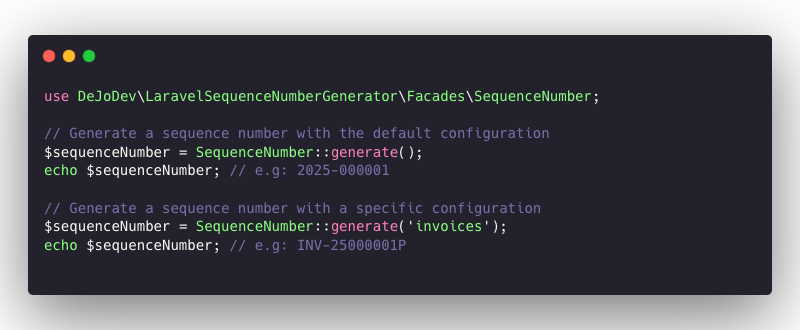
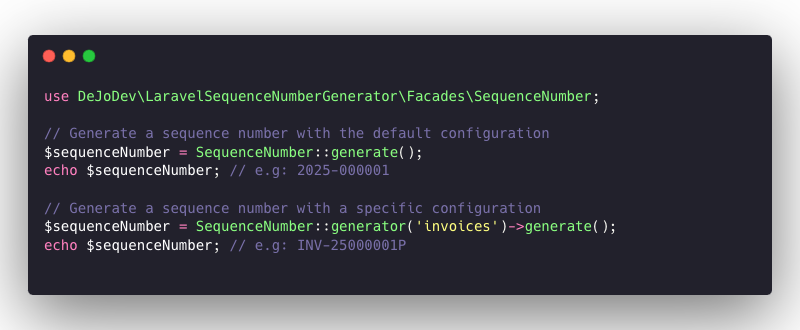
Update README; modify .gitattributes to ignore /img directory

diff --git a/README.md b/README.md
@@ -27,30 +27,30 @@ $sequenceNumber = SequenceNumber::generate();
 echo $sequenceNumber; // e.g: INV-2025-000001 
 
 // Generate a sequence number with a specific configuration
-$sequenceNumber = SequenceNumber::generate('custom');
+$sequenceNumber = SequenceNumber::generator('custom')->generate();
 echo $sequenceNumber; // e.g: MY-TYPE-25-000001P
 ```
 
 > **Warning** This package uses database locking to ensure that each generated number is unique so you must use a database that
-supports lockForUpdate() like mysql, mariadb or postgresql.
+supports lockForUpdate() like MySQL, MariaDB or PostgreSQL.
 
 ## Installation
 
-You can install the package via composer:
+You can install the package via Composer:
 ```bash
 composer require dejodev/laravel-sequence-number-generator
 ```
 
-Then publish and run the migrations with:
+Then publish the resources and run the migrations with:
 ```bash
-php artisan vendor:publish --tag="laravel-sequence-number-generator-migrations"
+php artisan vendor:publish --provider DeJoDev\\LaravelSequenceNumberGenerator\\LaravelSequenceNumberGeneratorServiceProvider
 php artisan migrate
 ```
 
 Set the environment variables in your `.env` file:
 
 ```dotenv
-SEQUENCE_NUMBER_GENERATOR_DEFAULT=custom
+SEQUENCE_NUMBER_GENERATOR_DEFAULT=default
 SEQUENCE_NUMBER_GENERATOR_TYPE=default
 SEQUENCE_NUMBER_GENERATOR_MASK={#}
 SEQUENCE_NUMBER_GENERATOR_IS_YEARLY=false
@@ -58,40 +58,11 @@ SEQUENCE_NUMBER_GENERATOR_IS_YEARLY=false
 
 ### Environment Variables
 
-- `SEQUENCE_NUMBER_GENERATOR_DEFAULT`: The default sequence configuration to use. default is `custom`.
-- `SEQUENCE_NUMBER_GENERATOR_TYPE`: A string value that distinguishes between different sequence generators. default is `default`.
-- `SEQUENCE_NUMBER_GENERATOR_MASK`: The mask format string for the sequence number. default is `{#}`.
-- `SEQUENCE_NUMBER_GENERATOR_IS_YEARLY`: Boolean to determine if the sequence should reset yearly. default is `false`.
-
-For advanced configuration you can publish the config file with:
-```bash
-php artisan vendor:publish --tag="laravel-sequence-number-generator-config"
-```
-
-This is the contents of the published config file:
-
-```php
-return [
-    'default_generator' => env('SEQUENCE_NUMBER_GENERATOR_DEFAULT', 'default'),
-    'default' => [
-        'sequence_type' => env('SEQUENCE_NUMBER_GENERATOR_TYPE', 'default'),
-        'mask' => env('SEQUENCE_NUMBER_GENERATOR_MASK', '{#}'),
-        'is_yearly' => env('SEQUENCE_NUMBER_GENERATOR_IS_YEARLY', false),
-    ],
-    
-    'simple' => [
-        'sequence_type' => 'simple',
-        'mask' => '{#}',
-        'is_yearly' => false,
-    ],
-    
-    'yearly' => [
-        'sequence_type' => 'yearly',
-        'mask' => '{y}-{######}',
-        'is_yearly' => true,
-    ],
-];
-```
+- `SEQUENCE_NUMBER_GENERATOR_DEFAULT`: The default sequence configuration to use. Default is `default`.
+- `SEQUENCE_NUMBER_GENERATOR_TYPE`: The type for the default generator. 
+   Type is a string value that distinguishes between different sequence generators. Default is `default`.
+- `SEQUENCE_NUMBER_GENERATOR_MASK`: The mask format string for the default generator. Default is `{#}`.
+- `SEQUENCE_NUMBER_GENERATOR_IS_YEARLY`: Boolean to determine if the default generator should reset yearly. Default is `false`.
 
 Using the config file, you can define multiple sequence configurations for your application.
 ```php
@@ -127,15 +98,14 @@ Then use them like this:
 ```php
 use DeJoDev\LaravelSequenceNumberGenerator\Facades\SequenceNumber;
 
-$customerNumber = SequenceNumber::generate('customers');
+$customerNumber = SequenceNumber::generator('customers')->generate();
 echo $customerNumber; // e.g: 000001
 
-$orderNumber = SequenceNumber::generate('orders');
+$orderNumber = SequenceNumber::generator('orders')->generate();
 echo $orderNumber; // e.g: ORD-25000001
 
-$invoiceNumber = SequenceNumber::generate('invoices');
+$invoiceNumber = SequenceNumber::generator('invoices')->generate();
 echo $invoiceNumber; // e.g: INV-2025-000001
 ```
 
 The MIT License (MIT). Please see [License File](LICENSE.md) for more information.
-
